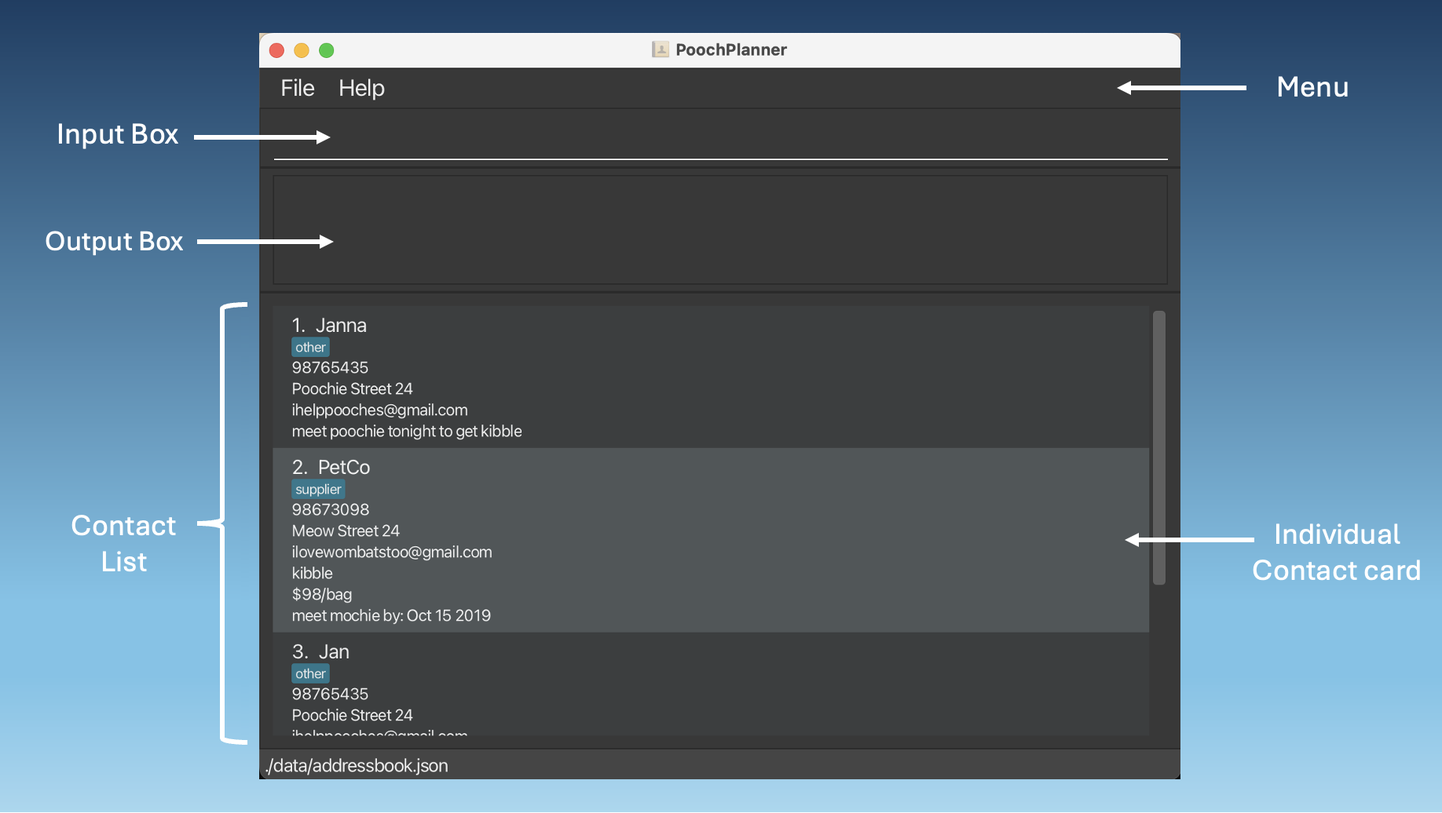
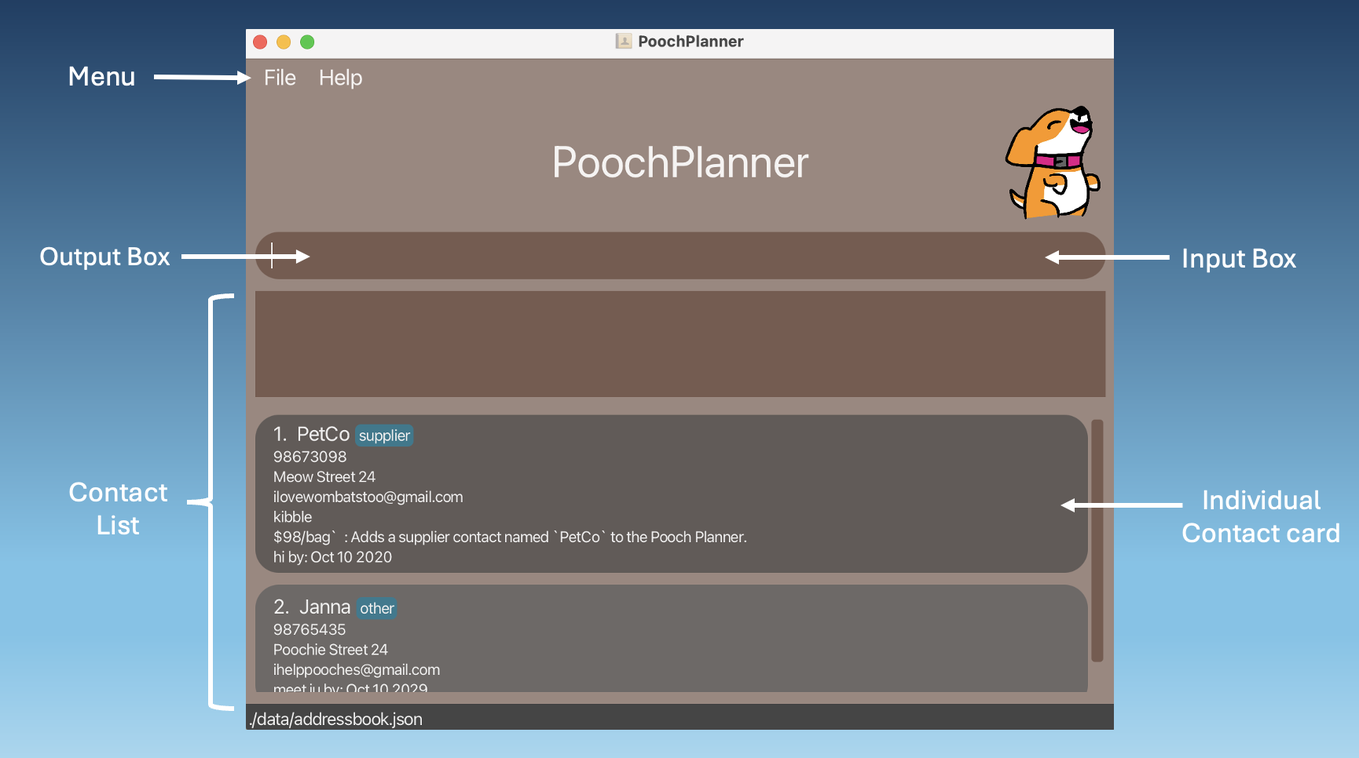
Improve command formats
Use you language to make
the descriptions sound more
personable.

Update screenshots to
reflect new UI.

Add explanations to all examples.

diff --git a/docs/UserGuide.md b/docs/UserGuide.md
@@ -115,11 +115,11 @@ Here's a quick look at the different parts of our GUI and some tips on how to us
 
 ### Basic Orientation
 
-![Quick Orientation](images/ug-images/basicGuiNavigation.png)
+![Quick Orientation](images/ug-images/BasicGuiNavigation.png)
 
 ### Contact Card
 
-![Employee Card](images/ug-images/personCardGuiNavigation.png)
+![Employee Card](images/ug-images/PersonCardGuiNavigation.png)
 
 <div style="page-break-after: always;"></div>
 
@@ -146,37 +146,20 @@ Here's a quick look at the different parts of our GUI and some tips on how to us
 
 ### Adding a contact: `add`
 
-Adds a **person/ staff / supplier / maintainer** contact to the Pooch Planner.
+Adds a **person/ staff / supplier / maintainer** contact to the Pooch Planner so that you can be consistently update your planner with new contacts.
 
 <div style="display: flex;">
     <img src="images/ug-images/command-images/add-before.png" style="flex: 1; margin-right: 5px; width: 50%; height: 50%;">
     <img src="images/ug-images/command-images/add-after.png" style="flex: 1; margin-left: 5px; width: 50%; height: 50%;">
 </div>
 
-#### Adds a person
-Format: `/add-person ; name : [name] ; phone : [phone] ; address : [address] ; email : [email] ;`
 
-#### Adds a staff
-Format: `/add-staff ; name : [name] ; phone : [phone] ; address : [address] ; email : [email] ; salary : [salary/hr]  ; employment : [part/full] ;`
-
-#### Adds a supplier
-Format: `/add-supplier ; name : [name] ; phone : [phone] ; address : [address] ; email : [email] ; product : [product] ; price : [price/(quantity)] ;`
-
-#### Adds a maintainer
-Format: `/add-maintainer ; name : [name] ; phone : [phone] ; address : [address] ; email : [email] ; skill : [skill] ; commission : [commission/hr] ;`
-
-Examples:
-* `/add-person ; name : Janna  ; phone : 98765435 ; address : Poochie Street 24 ; email : ihelppooches@gmail.com`
-* `/add-staff ; name : Poochie ; phone : 98765435 ; address : Poochie Street 21 ; email : ilovecatstoo@gmail.com ; salary : $50/hr ; employment : part-time`
-* `/add-supplier ; name : PetCo ; phone : 98673098 ; address : Meow Street 24 ; email : ilovewombatstoo@gmail.com ; product : kibble ; price : $98/bag`
-* `/add-maintainer ; name : Tom Tan  ; phone : 98765435 ; address : Poochie Street 24 ; email : ihelppooches@gmail.com ; skill : trainer ; commission : $60/hr`
-
-| Adds a ...       | Format & Examples                                                                                                                                                                                                                                                                                                                         |
-|------------------|-------------------------------------------------------------------------------------------------------------------------------------------------------------------------------------------------------------------------------------------------------------------------------------------------------------------------------------------|
-| **Person**       | Format :<br>`/add-person ; name : [name] ; phone : [phone] ; address : [address] ; email : [email]` <br> Example: <br>`/add-person ; name : Janna  ; phone : 98765435 ; address : Poochie Street 24 ; email : ihelppooches@gmail.com`                                                                                                     |
-| **Staff**        | Format : <br>`/add-staff ; name : [name] ; phone : [phone] ; address : [address] ; email : [email] ; salary : [salary/hr]  ; employment : [part/full]` <br> Example: <br>`/add-staff ; name : Poochie ; phone : 98765435 ; address : Poochie Street 21 ; email : ilovecatstoo@gmail.com ; salary : $50/hr ; employment : part-time`       |
-| **Supplier**     | Format : <br>`/add-supplier ; name : [name] ; phone : [phone] ; address : [address] ; email : [email] ; product : [product] ; price : [price/(quantity)]` <br> Example: <br>`/add-supplier ; name : PetCo ; phone : 98673098 ; address : Meow Street 24 ; email : ilovewombatstoo@gmail.com ; product : kibble ; price : $98/bag`         |
-| **Maintainer**   | Format : <br>`/add-maintainer ; name : [name] ; phone : [phone] ; address : [address] ; email : [email] ; skill : [skill] ; commission : [commission/hr]` <br> Example: <br>`/add-maintainer ; name : Tom Tan  ; phone : 98765435 ; address : Poochie Street 24 ; email : ihelppooches@gmail.com ; skill : trainer ; commission : $60/hr` |
+| Adds a ...       | Format & Examples                                                                                                                                                                                                                                                                                                                                                                                                                                                                                                                                                                                     |
+|------------------|-------------------------------------------------------------------------------------------------------------------------------------------------------------------------------------------------------------------------------------------------------------------------------------------------------------------------------------------------------------------------------------------------------------------------------------------------------------------------------------------------------------------------------------------------------------------------------------------------------|
+| **Person**       | Format :<br>`/add-person ; name : [name] ; phone : [phone] ; address : [address] ; email : [email]` <br> <br> Example: <br>`/add-person ; name : Janna  ; phone : 98765435 ; address : Poochie Street 24 ; email : ihelppooches@gmail.com`<br> The above command adds a Person. Person's name is **_Janna_**, phone number is **_98765435_**, address is **_Poochie Street 24_**, and email is **_ihelppooches@gmail.com_**.                                                                                                                                                                          |
+| **Staff**        | Format : <br>`/add-staff ; name : [name] ; phone : [phone] ; address : [address] ; email : [email] ; salary : [salary/hr]  ; employment : [part/full]` <br> <br> Example: <br>`/add-staff ; name : Poochie ; phone : 98765435 ; address : Poochie Street 21 ; email : ilovecatstoo@gmail.com ; salary : $50/hr ; employment : part-time`<br> The above command adds a Staff. Staff's name is **_Poochie_**, phone number is **_98765435_**, address is **_Poochie Street 21_**, email is **_ilovecatstoo@gmail.com_**, salary is **_$50/hr_**, and employment is **_part-time_**.                     |
+| **Supplier**     | Format : <br>`/add-supplier ; name : [name] ; phone : [phone] ; address : [address] ; email : [email] ; product : [product] ; price : [price/(quantity)]` <br> <br> Example: <br>`/add-supplier ; name : PetCo ; phone : 98673098 ; address : Meow Street 24 ; email : ilovewombatstoo@gmail.com ; product : kibble ; price : $98/bag`<br> The above command adds a Supplier. Supplier's name is **_Petco_**, phone number is **_98673098_**, address is **_Meow Street 24_**, and email is **_ilovewombatstoo@gmail.com_**, product is **_kibble_**, and price of product is **_$98/bag_**.          |
+| **Maintainer**   | Format : <br>`/add-maintainer ; name : [name] ; phone : [phone] ; address : [address] ; email : [email] ; skill : [skill] ; commission : [commission/hr]` <br> <br> Example: <br>`/add-maintainer ; name : Tom Tan  ; phone : 98765435 ; address : Poochie Street 24 ; email : ihelppooches@gmail.com ; skill : trainer ; commission : $60/hr`<br> The above command adds a Maintainer. Maintainer's name is **_Tom Tan_**, phone number is **_98765435_**, address is **_Poochie Street 24_**, and email is **_ihelppooches@gmail.com_**, skill is **_trainer_** and commission is **_$60/hr_**.     |
 
 <div markdown="span" class="alert alert-warning">:exclamation: **Constraints:**<br>
 
@@ -198,7 +181,7 @@ Examples:
 
 ### Editing a contact : `edit`
 
-Edit a **person / staff / supplier / maintainer** contact in the Pooch Planner.
+Edit a **person / staff / supplier / maintainer** contact in the Pooch Planner so that you can consistently update your contacts with new details.
 
 <div style="display: flex;">
     <img src="images/ug-images/command-images/edit-before.png" style="flex: 1; margin-right: 5px; width: 50%; height: 50%;">
@@ -207,10 +190,10 @@ Edit a **person / staff / supplier / maintainer** contact in the Pooch Planner.
 
 | Edits a ...    | Format & Examples                                                                                                                                                                                                                                                           |
 |----------------|-----------------------------------------------------------------------------------------------------------------------------------------------------------------------------------------------------------------------------------------------------------------------------|
-| **Person**     | Format : <br>`/edit-person ; name : [name] ; field : { phone : [phone] ; address : [address] ; email : [email] }` <br> Example:<br> `/edit ; name : Mochie ; field : { address : Pooch Street 31`<br> The above command edits the **address** field of **_Mochie_** to **_Pooch Street 31_**.                                                                                  |
-| **Staff**      | Format : <br>`/edit-staff ; name : [name] ; field : { phone : [phone] ; address : [address] ; email : [email] ; salary : [salary]  ; employment : [part/full] }` <br> Example: <br>`/edit-staff ; name : Thomas ; field : { address : Poochie Street 25 ; employment : full-time }` <br> The above command edits the **address and employment** field of **_Thomas_** to **_Poochie Street 25_** and **_full-time_** respectively.|
-| **Supplier**   | Format : <br>`/edit-supplier ; name : [name] ; field : { phone : [phone] ; address : [address] ; email : [email] ; product : [product] ; price : [price] }` <br> Example: <br>`/edit-supplier ; name : Supplier1 ; field : { product : kibble ; price : $75/bag}` <br>The above command edits the **product and price** field of **_Supplier1_** to **_kibble_** and **_$75/bag_** respectively.                   |
-| **Maintainer** | Format : <br>`/edit-maintainer ; name : [name] ; field : { phone : [phone] ; address : [address] ; email : [email] ; skill : [skill] ; commission : [commission] }` <br> Example: <br>`/edit-maintainer ; name : Maintainer1 ; field : { commission : $10/hr}`<br>The above command edits the **commission** field of **_Maintainer1_** to **_$10/hr_**.                       |
+| **Person**     | Format : <br>`/edit-person ; name : [name] ; field : { phone : [phone] ; address : [address] ; email : [email] }` <br><br> Example:<br> `/edit ; name : Mochie ; field : { address : Pooch Street 31`<br> The above command edits the **address** field of **_Mochie_** to **_Pooch Street 31_**.                                                                                  |
+| **Staff**      | Format : <br>`/edit-staff ; name : [name] ; field : { phone : [phone] ; address : [address] ; email : [email] ; salary : [salary]  ; employment : [part/full] }` <br><br> Example: <br>`/edit-staff ; name : Thomas ; field : { address : Poochie Street 25 ; employment : full-time }` <br> The above command edits the **address and employment** field of **_Thomas_** to **_Poochie Street 25_** and **_full-time_** respectively.|
+| **Supplier**   | Format : <br>`/edit-supplier ; name : [name] ; field : { phone : [phone] ; address : [address] ; email : [email] ; product : [product] ; price : [price] }` <br><br> Example: <br>`/edit-supplier ; name : Supplier1 ; field : { product : kibble ; price : $75/bag}` <br>The above command edits the **product and price** field of **_Supplier1_** to **_kibble_** and **_$75/bag_** respectively.                  |
+| **Maintainer** | Format : <br>`/edit-maintainer ; name : [name] ; field : { phone : [phone] ; address : [address] ; email : [email] ; skill : [skill] ; commission : [commission] }` <br><br> Example: <br>`/edit-maintainer ; name : Maintainer1 ; field : { commission : $10/hr}`<br>The above command edits the **commission** field of **_Maintainer1_** to **_$10/hr_**.                       |
 
 <div markdown="span" class="alert alert-warning">:exclamation: **Constraints:**<br>
 
@@ -237,7 +220,7 @@ Edit a **person / staff / supplier / maintainer** contact in the Pooch Planner.
 
 ### Searching a contact : `search`
 
-Searches for a **person / staff / supplier / maintainer** contact in the Pooch Planner.
+Searches for a **person / staff / supplier / maintainer** contact in the Pooch Planner so that you can find your contacts more easily.
 
 <div style="display: flex;">
     <img src="images/ug-images/command-images/search-before.png" style="flex: 1; margin-right: 5px; width: 50%; height: 50%;">
@@ -248,7 +231,10 @@ Format: `/search ; [field] : [full/partial query]`
 
 Examples:
 * `/search ; name : Poochie`
+
+  The above command searches for the contact with name **_Poochie_**.
 * `/search ; phone : 98765432`
+  The above command searches for the contact with phone number **_98765432_**.
 
 <div markdown="span" class="alert alert-warning">:exclamation: **Constraints:**<br>
 
@@ -267,7 +253,7 @@ Examples:
 
 ### Deleting a contact : `delete`
 
-Deletes a **person / staff / supplier / maintainer** contact from the Pooch Planner.
+Deletes a **person / staff / supplier / maintainer** contact from the Pooch Planner so that your outdated contacts can be removed.
 
 <div style="display: flex;">
     <img src="images/ug-images/command-images/delete-before.png" style="flex: 1; margin-right: 5px; width: 50%; height: 50%;">
@@ -279,7 +265,7 @@ Format: `/delete ; name : [name]`
 Examples:
 * `/delete ; name : Poochie`
 
-   The above command deletes the contact with name **_Poochie_**, provided **_Poochie_** exists as a name of a contact in Pooch Contact Book
+   The above command deletes the contact with name **_Poochie_**.
 
 <div markdown="span" class="alert alert-warning">:exclamation: **Constraints:**<br>
 
@@ -290,7 +276,7 @@ Examples:
 
 ### Rating a Contact : `rate`
 
-Gives a **person / staff / supplier / maintainer** contact from the Pooch Planner a performance rating.
+Gives a **person / staff / supplier / maintainer** contact from the Pooch Planner a performance rating so that cafe owners can track the performance of their contacts.
 
 <div style="display: flex;">
     <img src="images/ug-images/command-images/rate-before.png" style="flex: 1; margin-right: 5px; width: 50%; height: 50%;">
@@ -302,7 +288,7 @@ Format: `/rate ; name : [name] ; rating : [rating value from 1-5]`
 Examples:
 * `/rate ; name : Poochie ; rating : 5`
   
-  The above command rates the contact with the name **_Poochie_** with a rating of `5`, provided **_Poochie_** exists as a name of a contact in Pooch Contact Book
+  The above command rates the contact with the name **_Poochie_** with a rating of `5`.
 
 
 <div markdown="span" class="alert alert-warning">:exclamation: **Constraints:**<br>
@@ -325,7 +311,7 @@ Examples:
 
 ### Pinning a contact : `pin`
 
-Pins the specified contact on Pooch Planner so that the contact will consistently appear at the top on the contact list.
+Pins the specified contact on Pooch Planner so that your important contacts will consistently appear at the top on the contact list.
 
 <div style="display: flex;">
     <img src="images/ug-images/command-images/pin-before.png" style="flex: 1; margin-right: 5px; width: 50%; height: 50%;">
@@ -337,7 +323,7 @@ Format: `/pin ; name : [name]`
 Examples:
 * `/pin ; name : Poochie`
 
-   The above command pins the contact with name **_Poochie_**, provided **_Poochie_** exists as a name of a contact in Pooch Contact Book.
+   The above command pins the contact with name **_Poochie_**.
 
 <div markdown="span" class="alert alert-warning">:exclamation: **Constraints:**<br>
 
@@ -356,7 +342,7 @@ Examples:
 
 ### Unpinning a contact : `unpin`
 
-Unpins the specified contact on Pooch Planner so that the contact will consistently appear at the top on the contact list.
+Unpins the specified contact on Pooch Planner so that your less important contacts can be removed from the top on the contact list.
 
 <div style="display: flex;">
     <img src="images/ug-images/command-images/unpin-before.png" style="flex: 1; margin-right: 5px; width: 50%; height: 50%;">
@@ -381,13 +367,19 @@ Examples:
 
 ### Sorting the address book : `sort`
 
-Sorts the address book by field in ascending order
+Sorts the address book by field in ascending order so that you can display your contacts neatly and locate them easily.
 
 Format: `/sort ; [field]`
 
 Examples:
 * `/sort ; name`
+
+    The above command sorts the contact based on name in ascending lexicographical order.
+
 * `/sort ; phone`
+
+  The above command sorts the contact based on name in phone number in ascending order.  
+    
 
 <div markdown="span" class="alert alert-warning">:exclamation: **Constraints:**<br>
 
@@ -400,7 +392,7 @@ Examples:
 
 ### Adding a note : `note`
 
-Adds a note to a specified person from the Pooch Planner.
+Adds a note to a specified person from the Pooch Planner so that you can keep track of any details regarding the contact.
 
 <div style="display: flex;">
     <img src="images/ug-images/command-images/note-before.png" style="flex: 1; margin-right: 5px; width: 50%; height: 50%;">
@@ -413,7 +405,7 @@ Examples:
 * `/note ; name : Poochie ; note : meet poochie tonight to get kibble`
 
   The above command adds the note "meet poochie tonight to get kibble" to 
-  the contact with name **_Poochie_**, provided **_Poochie_** exists as a name of a contact in Pooch Contact Book
+  the contact with name **_Poochie_**.
 
 <div markdown="span" class="alert alert-warning">:exclamation: **Constraints:**<br>
 
@@ -433,7 +425,7 @@ Examples:
 
 ### Undoing a command : `undo`
 
-Undo a previous command which made a change to Pooch Planner history.
+Undo a previous command which had changed the contents of PoochPlanner so that you can reverse unintentionally commands easily.
 
 <div style="display: flex;">
     <img src="images/ug-images/command-images/undo-before.png" style="flex: 1; margin-right: 5px; width: 50%; height: 50%;">
@@ -441,6 +433,10 @@ Undo a previous command which made a change to Pooch Planner history.
 </div>
 
 Format: `/undo`
+Examples:
+* `/undo`
+    
+    The above command undoes the most recent command.
 
 <div markdown="span" class="alert alert-warning">:exclamation: **Constraints:**<br>
 
@@ -459,7 +455,7 @@ Format: `/undo`
 
 ### Redoing a command : `redo`
 
-Retrieve next state of Pooch Planner
+Redoes a command so that you can reverse unintentionally uses of the undo command.
 
 <div style="display: flex;">
     <img src="images/ug-images/command-images/redo-before.png" style="flex: 1; margin-right: 5px; width: 50%; height: 50%;">
@@ -467,6 +463,10 @@ Retrieve next state of Pooch Planner
 </div>
 
 Format: `/redo`
+Examples:
+* `/redo`
+
+  The above command redoes the most recent command.
 
 <div markdown="span" class="alert alert-warning">:exclamation: **Constraints:**<br>
 
@@ -486,7 +486,7 @@ Format: `/redo`
 
 ### Viewing help : `help`
 
-Shows a message of how to write commands for all commands or a specfic command.
+Shows a help message of how to use commands so that you can get help about commands easily.
 
 <div style="display: flex;">
     <img src="images/ug-images/command-images/help-before.png" style="flex: 1; margin-right: 5px; width: 50%; height: 50%;">
@@ -497,7 +497,11 @@ Format: `/help ; command : [command type]`
 
 Examples:
 * `/help ; command : delete`
+
+  The above command gives help for delete command.
 * `/help ; command : add`
+
+  The above command gives help for add command.
 
 <div markdown="span" class="alert alert-warning">:exclamation: **Constraints:**<br>
 
@@ -642,41 +646,44 @@ Example: Adding a new contact with a note and a rating
 
 A **prefix** is an integral construct of PoochPlanner's commands that allow PoochPlanner to uniquely identify contact fields.
 
-| Prefix                  | Field                                                      | Contact Type   |
-|-------------------------|------------------------------------------------------------|----------------|
-| `; name :`              | Specifies the name of the PoochContact                     | All            |
-| `; phone :`             | Specifies the phone number of the PoochContact             | All            |
-| `; address :`           | Specifies the addresss of the PoochContact                 | All            |
-| `; email :`             | Specifies the email address of the PoochContact            | All            |
-| `; note :`              | Specifies the note appended to the PoochContact            | All            |
-| `; rating :`            | Specifies the rating given to the PoochContact             | All            |
-| `; salary :`            | Specifies the salary of the PoochContact                   | Staff          |
-| `; employment :`        | Specifies the employment of the PoochContact               | Staff          |
-| `; product :`           | Specifies the product sold by the PoochContact             | Supplier       |
-| `; price :`             | Specifies the price charged by the PoochContact            | Supplier       |
-| `; skill :`             | Specifies the type of service offered by the PoochContact  | Maintainer     |
-| `; commission :`        | Specifies the commission charged by the PoochContact       | Maintainer     |
+| Prefix           | Field                                                       | Contact Type   |
+|------------------|-------------------------------------------------------------|----------------|
+| `; name :`       | Specifies the name of the PoochContact                      | All            |
+| `; phone :`      | Specifies the phone number of the PoochContact              | All            |
+| `; address :`    | Specifies the addresss of the PoochContact                  | All            |
+| `; email :`      | Specifies the email address of the PoochContact             | All            |
+| `; note :`       | Specifies the note appended to the PoochContact             | All            |
+| `; rating :`     | Specifies the rating given to the PoochContact              | All            |
+| `; deadline :`   | Specifies the deadline of note appended to the PoochContact | All            |
+| `; command :`    | Specifies the command type to give help for                 | All            |
+| `; salary :`     | Specifies the salary of the PoochContact                    | Staff          |
+| `; employment :` | Specifies the employment of the PoochContact                | Staff          |
+| `; product :`    | Specifies the product sold by the PoochContact              | Supplier       |
+| `; price :`      | Specifies the price charged by the PoochContact             | Supplier       |
+| `; skill :`      | Specifies the type of service offered by the PoochContact   | Maintainer     |
+| `; commission :` | Specifies the commission charged by the PoochContact        | Maintainer     |
 
 ## Command Summary
 
-| Action                  | Format and Example                                                                                                                                                                                                                                                                                                                            |
-|-------------------------|-----------------------------------------------------------------------------------------------------------------------------------------------------------------------------------------------------------------------------------------------------------------------------------------------------------------------------------------------|
-| **Add General Contact** | Format : <br>`/add-person ; name : [name] ; phone : [phone] ; address : [address] ; email : [email] ; skill : [skill] ; commission : [commission]`     <br> <br> Example : <br> `/add-person ; name : Janna  ; phone : 98765435 ; address : Poochie Street 24 ; email : iamjanna@gmail.com`                                                   |
-| **Add Staff**           | Format : <br>`/add-staff ; name : [name] ; phone : [phone] ; address : [address] ; email : [email] ; salary : [salary]  ; employment : [part/full]`    <br> <br> Example : <br> `/add-staff ; name : Poochie ; phone : 98765435 ; address : Poochie Street 21 ; email : ilovecatstoo@gmail.com ; salary : $50/hr ; employment : part-time`    |
-| **Add Supplier**        | Format : <br> `/add-supplier ; name : [name] ; phone : [phone] ; address : [address] ; email : [email] ; product : [product] ; price : [price]`        <br> <br> Example : <br> `/add-supplier ; name : PetCo ; phone : 98673098 ; address : Meow Street 24 ; email : ilovewombatstoo@gmail.com ; product : kibble ; price : $98/bag`         |
-| **Add Maintainer**      | Format : <br>`/add-maintainer ; name : [name] ; phone : [phone] ; address : [address] ; email : [email] ; skill : [skill] ; commission : [commission]` <br> <br> Example : <br> `/add-maintainer ; name : Tom Tan  ; phone : 98765435 ; address : Poochie Street 24 ; email : ihelppooches@gmail.com ; skill : trainer ; commission : $60/hr` |
-| **Edit General Contact**| Format : <br>`/edit-person ; name : [name] ; field : { target-field : [value] }`                                                                       <br> <br> Example : <br> `/edit-person ; name : Poochie ; field : { address : Poochie Street 25 }`                                                                                     |
-| **Edit Staff**          | Format : <br>`/edit-staff ; name : [name] ; field : { target-field : [value] }`                                                                        <br> <br> Example : <br> `/edit-staff ; name : Poochie ; field : { salary : $40/hr ; employment : part-time }`                                                                         |
-| **Edit Supplier**       | Format : <br>`/edit-supplier ; name : [name] ; field : { target-field : [value] }`                                                                     <br> <br> Example : <br> `/edit-supplier ; name : Poochie ; field : { product : kibble ; price : $75/bag }`                                                                            |
-| **Edit Maintainer**     | Format : <br>`/edit-maintainer ; name : [name] ; field : { target-field : [value] }`                                                                   <br> <br> Example : <br> `/edit-maintainer ; name : Poochie ; field : { commission : $10/hr }`                                                                                         |
-| **Delete**              | Format : <br>`/delete name : [name] `                                                                                                                  <br> <br> Example : <br> `/delete ; name : Poochie`                                                                                                                                    |
-| **Search**              | Format : <br>`/search ; target-field : [value]`                                                                                                        <br> <br> Example : <br> `/search ; name : Poochie`                                                                                                                                    |
-| **List**                | Format : <br>`/list`                                                                                                                                   <br> <br> Example : <br> `/list`                                                                                                                                                       |
-| **Help**                | Format : <br>`/help ; command : [command type]`                                                                                                        <br> <br> Example : <br> `/help ; command : delete`                                                                                                                                    |
-| **Rate**                | Format : <br>`/rate ; name : [name] ; rating : [rating]`                                                                                               <br> <br> Example : <br> `/rate ; name : Poochie ; rating : 5`                                                                                                                         |
-| **Undo**                | Format : <br>`/undo`                                                                                                                                   <br> <br> Example : <br> `/undo`                                                                                                                                                       |
-| **Redo**                | Format : <br>`/redo`                                                                                                                                   <br> <br> Example : <br> `/redo`                                                                                                                                                       |
-| **Pin**                 | Format : <br>`/pin ; name : [name]`                                                                                                                    <br> <br> Example : <br> `/pin ; name : Poochie`                                                                                                                                       |
-| **Unpin**               | Format : <br>`/unpin ; name : [name]`                                                                                                                  <br> <br> Example : <br> `/unpin ; name : Poochie`                                                                                                                                     |
-| **Sort**                | Format : <br>`/sort ; target-field`                                                                                                                    <br> <br> Example : <br> `/sort ; name`                                                                                                                                                |
-| **Exit**                | Format : <br>`exit`                                                                                                                                    <br> <br> Example : <br> `exit`                                                                                                                                                        | 
+| Action                   | Format and Example                                                                                                                                                                                                                                                                                                                            |
+|--------------------------|-----------------------------------------------------------------------------------------------------------------------------------------------------------------------------------------------------------------------------------------------------------------------------------------------------------------------------------------------|
+| **Add General Contact**  | Format : <br>`/add-person ; name : [name] ; phone : [phone] ; address : [address] ; email : [email] ; skill : [skill] ; commission : [commission]`     <br> <br> Example : <br> `/add-person ; name : Janna  ; phone : 98765435 ; address : Poochie Street 24 ; email : iamjanna@gmail.com`                                                   |
+| **Add Staff**            | Format : <br>`/add-staff ; name : [name] ; phone : [phone] ; address : [address] ; email : [email] ; salary : [salary]  ; employment : [part/full]`    <br> <br> Example : <br> `/add-staff ; name : Poochie ; phone : 98765435 ; address : Poochie Street 21 ; email : ilovecatstoo@gmail.com ; salary : $50/hr ; employment : part-time`    |
+| **Add Supplier**         | Format : <br> `/add-supplier ; name : [name] ; phone : [phone] ; address : [address] ; email : [email] ; product : [product] ; price : [price]`        <br> <br> Example : <br> `/add-supplier ; name : PetCo ; phone : 98673098 ; address : Meow Street 24 ; email : ilovewombatstoo@gmail.com ; product : kibble ; price : $98/bag`         |
+| **Add Maintainer**       | Format : <br>`/add-maintainer ; name : [name] ; phone : [phone] ; address : [address] ; email : [email] ; skill : [skill] ; commission : [commission]` <br> <br> Example : <br> `/add-maintainer ; name : Tom Tan  ; phone : 98765435 ; address : Poochie Street 24 ; email : ihelppooches@gmail.com ; skill : trainer ; commission : $60/hr` |
+| **Edit General Contact** | Format : <br>`/edit-person ; name : [name] ; field : { target-field : [value] }`                                                                       <br> <br> Example : <br> `/edit-person ; name : Poochie ; field : { address : Poochie Street 25 }`                                                                                     |
+| **Edit Staff**           | Format : <br>`/edit-staff ; name : [name] ; field : { target-field : [value] }`                                                                        <br> <br> Example : <br> `/edit-staff ; name : Poochie ; field : { salary : $40/hr ; employment : part-time }`                                                                         |
+| **Edit Supplier**        | Format : <br>`/edit-supplier ; name : [name] ; field : { target-field : [value] }`                                                                     <br> <br> Example : <br> `/edit-supplier ; name : Poochie ; field : { product : kibble ; price : $75/bag }`                                                                            |
+| **Edit Maintainer**      | Format : <br>`/edit-maintainer ; name : [name] ; field : { target-field : [value] }`                                                                   <br> <br> Example : <br> `/edit-maintainer ; name : Poochie ; field : { commission : $10/hr }`                                                                                         |
+| **Delete**               | Format : <br>`/delete name : [name] `                                                                                                                  <br> <br> Example : <br> `/delete ; name : Poochie`                                                                                                                                    |
+| **Search**               | Format : <br>`/search ; target-field : [value]`                                                                                                        <br> <br> Example : <br> `/search ; name : Poochie`                                                                                                                                    |
+| **List**                 | Format : <br>`/list`                                                                                                                                   <br> <br> Example : <br> `/list`                                                                                                                                                       |
+| **Help**                 | Format : <br>`/help ; command : [command type]`                                                                                                        <br> <br> Example : <br> `/help ; command : delete`                                                                                                                                    |
+| **Rate**                 | Format : <br>`/rate ; name : [name] ; rating : [rating]`                                                                                               <br> <br> Example : <br> `/rate ; name : Poochie ; rating : 5`                                                                                                                         |
+| **Undo**                 | Format : <br>`/undo`                                                                                                                                   <br> <br> Example : <br> `/undo`                                                                                                                                                       |
+| **Redo**                 | Format : <br>`/redo`                                                                                                                                   <br> <br> Example : <br> `/redo`                                                                                                                                                       |
+| **Pin**                  | Format : <br>`/pin ; name : [name]`                                                                                                                    <br> <br> Example : <br> `/pin ; name : Poochie`                                                                                                                                       |
+| **Unpin**                | Format : <br>`/unpin ; name : [name]`                                                                                                                  <br> <br> Example : <br> `/unpin ; name : Poochie`                                                                                                                                     |
+| **Sort**                 | Format : <br>`/sort ; target-field`                                                                                                                    <br> <br> Example : <br> `/sort ; name`                                                                                                                                                |
+| **Note**                 | Format : <br>`/note ; name : [name] ; note : [note]` or `/note ; name : [name] ; note : [note] ; deadline : [deadline]`                                <br> <br> Example : <br> `/note ; name : Poochie ; note : get dog for groomers ; deadline : 2020-10-10`                                                                                |
+| **Exit**                 | Format : <br>`exit`                                                                                                                                    <br> <br> Example : <br> `exit`                                                                                                                                                        | 
